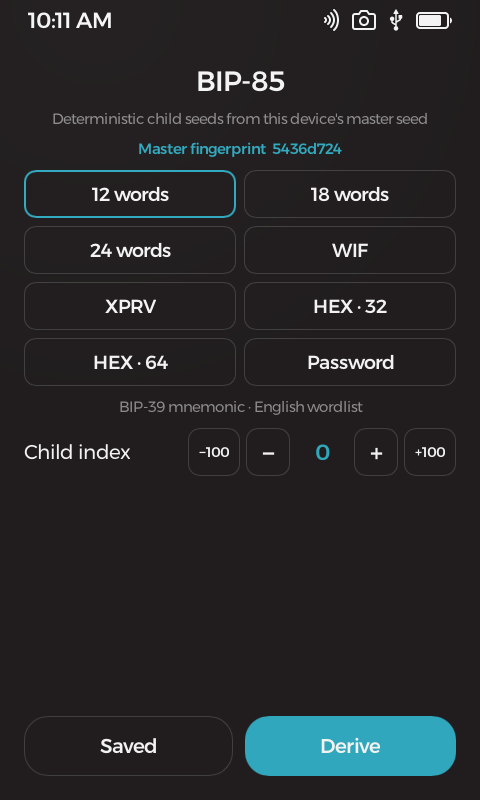
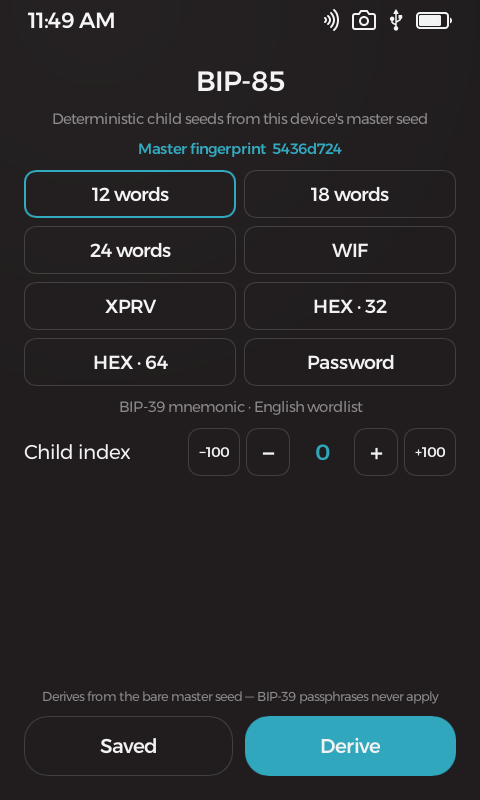
Password length 20-86 (spec range); bare-seed footer
- Length row (-10/-/+/+10, clamp 20-86) appears when Password is
  selected — the default stays 21 (the spec's canonical example) while
  exposing the full BIP-85 spec range; password filenames carry the length (pwd21, ...)
- Derive-screen footer: "Derives from the bare master seed — BIP-39
  passphrases never apply" (GetSeed exposes base entropy only; verified
  in KeyOS source — gui-app-bitcoin applies its passphrase at the
  wallet layer, never through the security server)
- README: bare-seed-root feature bullet + 20-86 password row;
  DEVELOPMENT documents the 21-default rationale;
  home.png recaptured with the footer; e2e gains a length-31 step

Changed region(s): [[0.0938, 0.8438, 0.5, 0.875], [0.5312, 0.8438, 0.9062, 0.875], [0.0625, 0.0, 0.25, 0.0312]]

diff --git a/src/main.rs b/src/main.rs
@@ -30,7 +30,7 @@ fn app_for_index(i: i32) -> Option<(&'static str, Application, &'static str)> {
         4 => Some(("XPRV (BIP-32 root)", Application::Xprv, "xprv")),
         5 => Some(("HEX · 32 bytes", Application::Hex { num_bytes: 32 }, "hex32")),
         6 => Some(("HEX · 64 bytes", Application::Hex { num_bytes: 64 }, "hex64")),
-        7 => Some(("Password · 21 chars", Application::Pwd { len: 21 }, "pwd")),
+        7 => Some(("Password", Application::Pwd { len: 21 }, "pwd")),
         _ => None,
     }
 }
@@ -68,6 +68,15 @@ fn app_main(cx: AppContext, ui: AppWindow) {
             let form = ui.global::<Form>();
             let (app_index, child_index) = (form.get_app_index(), form.get_child_index());
             let Some((label, app, tag)) = app_for_index(app_index) else { return };
+            // Passwords take the UI-chosen length (BIP-85 spec range 20–86;
+            // default 21 = the spec's canonical example length).
+            let (label, app) = match app {
+                Application::Pwd { .. } => {
+                    let len = form.get_pwd_len().clamp(20, 86) as u32;
+                    (format!("Password · {len} chars"), Application::Pwd { len })
+                }
+                _ => (label.to_string(), app),
+            };
             // Network only exists for the outputs that encode one.
             let network_encoded = matches!(app, Application::Wif | Application::Xprv);
             let testnet = network_encoded && form.get_network_index() == 1;
@@ -109,7 +118,12 @@ fn app_main(cx: AppContext, ui: AppWindow) {
                     d.set_show_qr(false);
                     d.set_qr(qr_image(qr_payload));
                     *last.borrow_mut() = Some(LastDerivation {
-                        tag,
+                        // Password filenames carry the length (pwd21, pwd40…)
+                        // so different lengths of the same index never collide.
+                        file_tag: match app {
+                            Application::Pwd { len } => format!("pwd{len}"),
+                            _ => tag.to_string(),
+                        },
                         label,
                         index: child_index as u32,
                         testnet: network_encoded.then_some(testnet),
@@ -222,8 +236,8 @@ fn app_main(cx: AppContext, ui: AppWindow) {
 /// What save() writes; mirrors the result screen.
 #[derive(Clone)]
 struct LastDerivation {
-    tag: &'static str,
-    label: &'static str,
+    file_tag: String,
+    label: String,
     index: u32,
     /// None for network-agnostic outputs; Some(is_testnet) for WIF/XPRV.
     testnet: Option<bool>,
@@ -310,7 +324,7 @@ fn save_derivation(fs: &Fs, d: &LastDerivation, location: i32) -> Result<String,
     // Testnet files get their own names so they never collide with (or get
     // mistaken for) the mainnet encoding of the same child.
     let net_tag = if d.testnet == Some(true) { "-testnet" } else { "" };
-    let name = format!("bip85-{}{}-i{}.txt", d.tag, net_tag, d.index);
+    let name = format!("bip85-{}{}-i{}.txt", d.file_tag, net_tag, d.index);
     let path = format!("{SAVE_DIR}/{name}");
     if fs.open_file(path.as_str(), loc, OpenFlags::READ_ONLY).is_ok() {
         return Err(format!("{name} already exists"));

diff --git a/README.md b/README.md
@@ -20,7 +20,7 @@ BIP-85 turns your Passport Prime's master seed into a family tree of independent
 | WIF | a Bitcoin Core `sethdseed` key |
 | XPRV | a BIP-32 root for coordinators |
 | HEX · 32 / 64 bytes | raw entropy for anything else |
-| Password · 21 chars | a base64 password (~126 bits) for anything with a login |
+| Password · 20–86 chars | a base64 password (default 21 ≈ 126 bits) for anything with a login |
 
 ## Features
 
@@ -30,6 +30,7 @@ BIP-85 turns your Passport Prime's master seed into a family tree of independent
 - **10,000 children per application** — indexes 0–9999 via ±1/±100 stepper buttons; no keyboard needed.
 - **Mainnet & testnet encodings** — WIF and XPRV can be encoded for testnet (clearly banner-labeled).
 - **Save derivations on your terms** — to private Internal storage by default, or to the USB-visible Airlock behind an explicit warning, with a built-in browser to view and delete saved files.
+- **Bare-seed root, always** — children derive from the master seed itself; BIP-39 passphrases never enter the derivation (KeyOS exposes base entropy only), so a wallet that folds an active BIP-39 passphrase into its BIP-85 children will derive a different family. The derive screen says so, right above the button.
 - **Secrets stay secret** — nothing sensitive ever appears in logs, and everything happens on a device with no network stack.
 
 > The screenshots show children of the **all-zero test seed** ("abandon … art") in the simulator — publicly known vectors, never funded.